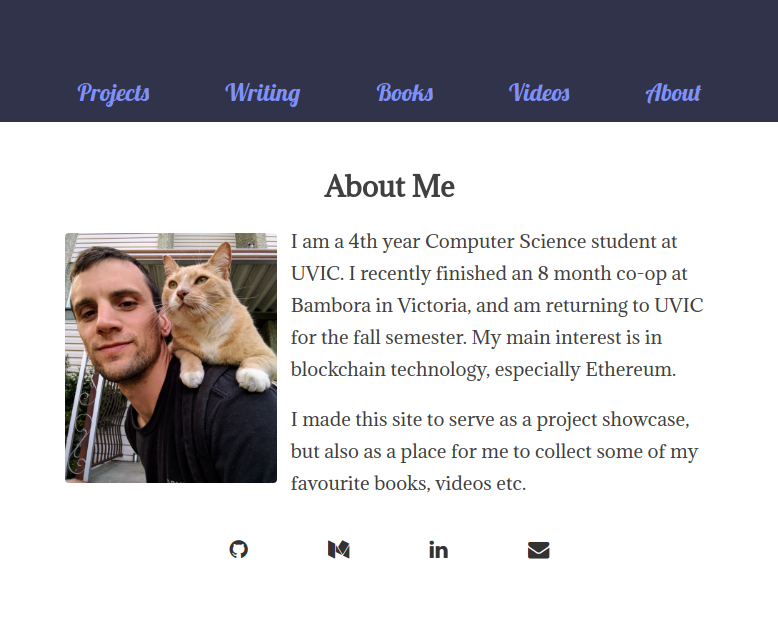
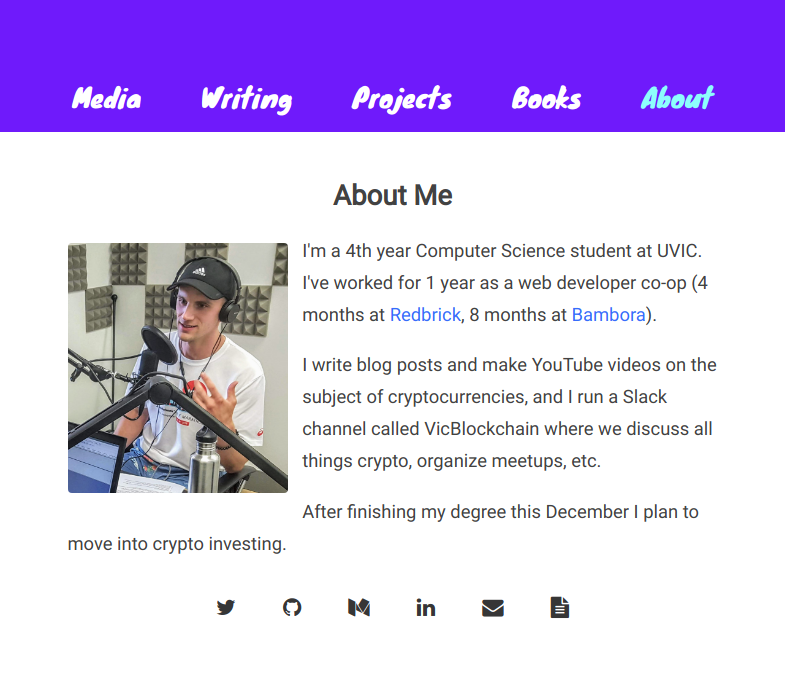
overhaul

diff --git a/src/components/header/Header.scss b/src/components/header/Header.scss
@@ -1,32 +1,31 @@
 .header-container {
-    background-color: #31334a;
+    background-color: #6f0fff;
     display: flex;
     justify-content: space-around;
     padding-top: 80px;
     padding-bottom: 15px;
 
     .header {
-      font-family: 'Lobster', 'Open Sans', 'Arial';
+      font-family: 'Knewave';
       font-size: 18pt;
       display: flex;
       justify-content: space-around;
       width: 700px;
 
       a {
-        color: #7e91fa;
+        color: #ffffff;
         text-decoration: none;
-        -o-transition:.4s;
-        -ms-transition:.4s;
-        -moz-transition:.4s;
-        -webkit-transition:.4s;
-        transition:.4s;
+        -o-transition:.1s;
+        -ms-transition:.1s;
+        -moz-transition:.1s;
+        -webkit-transition:.1s;
+        transition:.1s;
 
         &:hover {
-          color: #6377e8;
-          // color: #647cfc;
+          color: #8cfffd;
         }
         &:focus{
-          color: #596ee5;
+          color: #8cfffd;
         }
       }
     }

diff --git a/public/index.html b/public/index.html
@@ -4,7 +4,7 @@
     <meta charset="utf-8">
     <meta name="viewport" content="width=device-width, initial-scale=1">
     <link rel="shortcut icon" href="/public/favicon.png" type="image/x-icon">
-    <link href="https://fonts.googleapis.com/css?family=Lobster|Roboto|Open+Sans|Signika|Enriqueta|Lora|Adamina|PT+Sans|Noto+Serif" rel="stylesheet">
+    <link href="https://fonts.googleapis.com/css?family=Lobster|Roboto|Open+Sans|Signika|Enriqueta|Lora|Adamina|PT+Sans|Noto+Serif|Anton|Baloo+Tammudu|Concert+One|Fjalla+One|Jua|Knewave|Lilita+One|Merriweather+Sans|Monoton|Pacifico|Baloo+Paaji" rel="stylesheet">
     <script src="https://use.fontawesome.com/22c2217e68.js"></script>
 
     <!-- Start Single Page Apps for GitHub Pages -->

diff --git a/src/components/header/Header.js b/src/components/header/Header.js
@@ -6,10 +6,10 @@ import { Link } from 'react-router-dom'
 const Header = () => (
     <div className="header-container">
         <div className="header">
-            <Link to="/projects" className="projects">Projects</Link>
-            <Link to="/writing" className="writing">Writing</Link>
-            <Link to="/books" className="writing">Books</Link>
             <Link to="/videos" className="videos">Media</Link>
+            <Link to="/writing" className="writing">Writing</Link>
+            <Link to="/projects" className="projects">Projects</Link>
+            <Link to="/books" className="writing">Books</Link>
             <Link to="/about" className="about">About</Link>
         </div>
     </div>

diff --git a/src/components/article/Article.scss b/src/components/article/Article.scss
@@ -7,11 +7,10 @@
     white-space: normal;
     margin-top: 20px;
     color: #404040;
-    font-size: 1.15em;
-    line-height: 175%;
+    font-size: 1.0em;
+    line-height: 150%;
     width: 650px;
     padding: 5px;
-    // background-color: #eeeeee;
   }
 
   pre {
@@ -45,8 +44,8 @@
   img {
     max-width: 100%;
     border-radius: 6px;
-    box-shadow: 0 19px 38px rgba(100,100,100,0.30), 0 15px 12px rgba(200,200,200,0.22);
     margin-left: 0px;
+    border: 3px solid #3d3d3d;
   }
   #headshot {
     float: left;
@@ -56,6 +55,7 @@
     margin-bottom: 8px;
     margin-top: 8px;
     border-radius: 4px;
+    border: none;
   }
   @media (max-width: 680px) {
     #headshot {

diff --git a/src/components/video/Video.scss b/src/components/video/Video.scss
@@ -6,7 +6,7 @@
     padding-right: 6px;
     color: #404040;
     font-size: 1.00em;
-    line-height: 175%;
+    line-height: 150%;
     width: 650px;
     margin-bottom: 10px;
     #title {
@@ -14,10 +14,10 @@
       font-weight: bold;
     }
     img {
-      box-shadow: 0 6px 38px rgba(100,100,100,0.30), 0 15px 12px rgba(200,200,200,0.22);
       float: left;
       max-height: 150px;
       margin-right: 18px;
+      border-radius: 4px;
     }
   }
 }

diff --git a/src/components/book/Book.scss b/src/components/book/Book.scss
@@ -6,7 +6,7 @@
     padding-right: 6px;
     color: #404040;
     font-size: 1.00em;
-    line-height: 175%;
+    line-height: 150%;
     width: 650px;
     margin-bottom: 10px;
     #title {
@@ -14,7 +14,6 @@
       font-weight: bold;
     }
     #cover {
-      box-shadow: 0 6px 38px rgba(100,100,100,0.30), 0 15px 12px rgba(200,200,200,0.22);
       float: left;
       max-height: 150px;
       margin-right: 18px;

diff --git a/src/containers/app/App.js b/src/containers/app/App.js
@@ -14,7 +14,7 @@ const App = () => (
   <Router>
     <div className="app">
       <Header />
-        <Route exact path="/" component={Writing}/>
+        <Route exact path="/" component={Videos}/>
         <Route path="/about" component={About}/>
         <Route path="/writing" component={Writing}/>
         <Route path="/books" component={Books}/>

diff --git a/src/containers/app/App.scss b/src/containers/app/App.scss
@@ -1,4 +1,4 @@
-$text-highlight-color: #C6CDFF;
+$text-highlight-color: #b6afff;
 
 ::selection {
   background: $text-highlight-color;
@@ -11,6 +11,6 @@ $text-highlight-color: #C6CDFF;
 .app {
   margin-left: auto;
   margin-right: auto;
-  font-family: 'Adamina', 'PT Sans', 'Roboto', sans-serif;
+  font-family: 'Roboto', sans-serif;
 }
 

diff --git a/src/documents/posts/AboutMe.md b/src/documents/posts/AboutMe.md
@@ -3,7 +3,7 @@
 <img src="/public/images/podcast_1_close.jpg" id="headshot" alt="headshot"/>
 
 I'm a 4th year Computer Science student at UVIC.
-I've worked for 1 year as a web developer co-op (4 months at Redbrick, 8 months at Bambora).
+I've worked for 1 year as a web developer co-op (4 months at [Redbrick](https://rdbrck.com/), 8 months at [Bambora](https://www.bambora.com/en/us/)).
 
 I write blog posts and make YouTube videos on the subject of cryptocurrencies, and I run a Slack channel called VicBlockchain where we discuss all things crypto, organize meetups, etc.
 

diff --git a/src/documents/books/bobbyfischer.md b/src/documents/books/bobbyfischer.md
@@ -1,6 +1,4 @@
 <img src="../../public/images/book_covers/bobby_fischer.jpg" id="cover" alt="Bobby Fischer"/>
 <p id="title">Bobby Fischer Teaches Chess, Bobby Fischer</p>
 
-Bobby Fischer teaches chess from scratch.
-
-The book starts with simple end-game scenarios and gradually adds complexity.
+Bobby Fischer teaches chess from scratch via a series of increasingly difficult problem examples. The book starts with simple end-game scenarios and gradually adds complexity.

diff --git a/src/documents/books/diaspora.md b/src/documents/books/diaspora.md
@@ -3,7 +3,6 @@
 
 By far the most intense, creative, mind-bending hard sci-fi I've encountered in print, film, or anywhere else. 
 I'm still blown away by how "right" Egan gets everything.
-
 Arthur C. Clarke's 2001 has been my model of "accurate", hard sci-fi.
 Diaspora is without a doubt the new standard.
 
